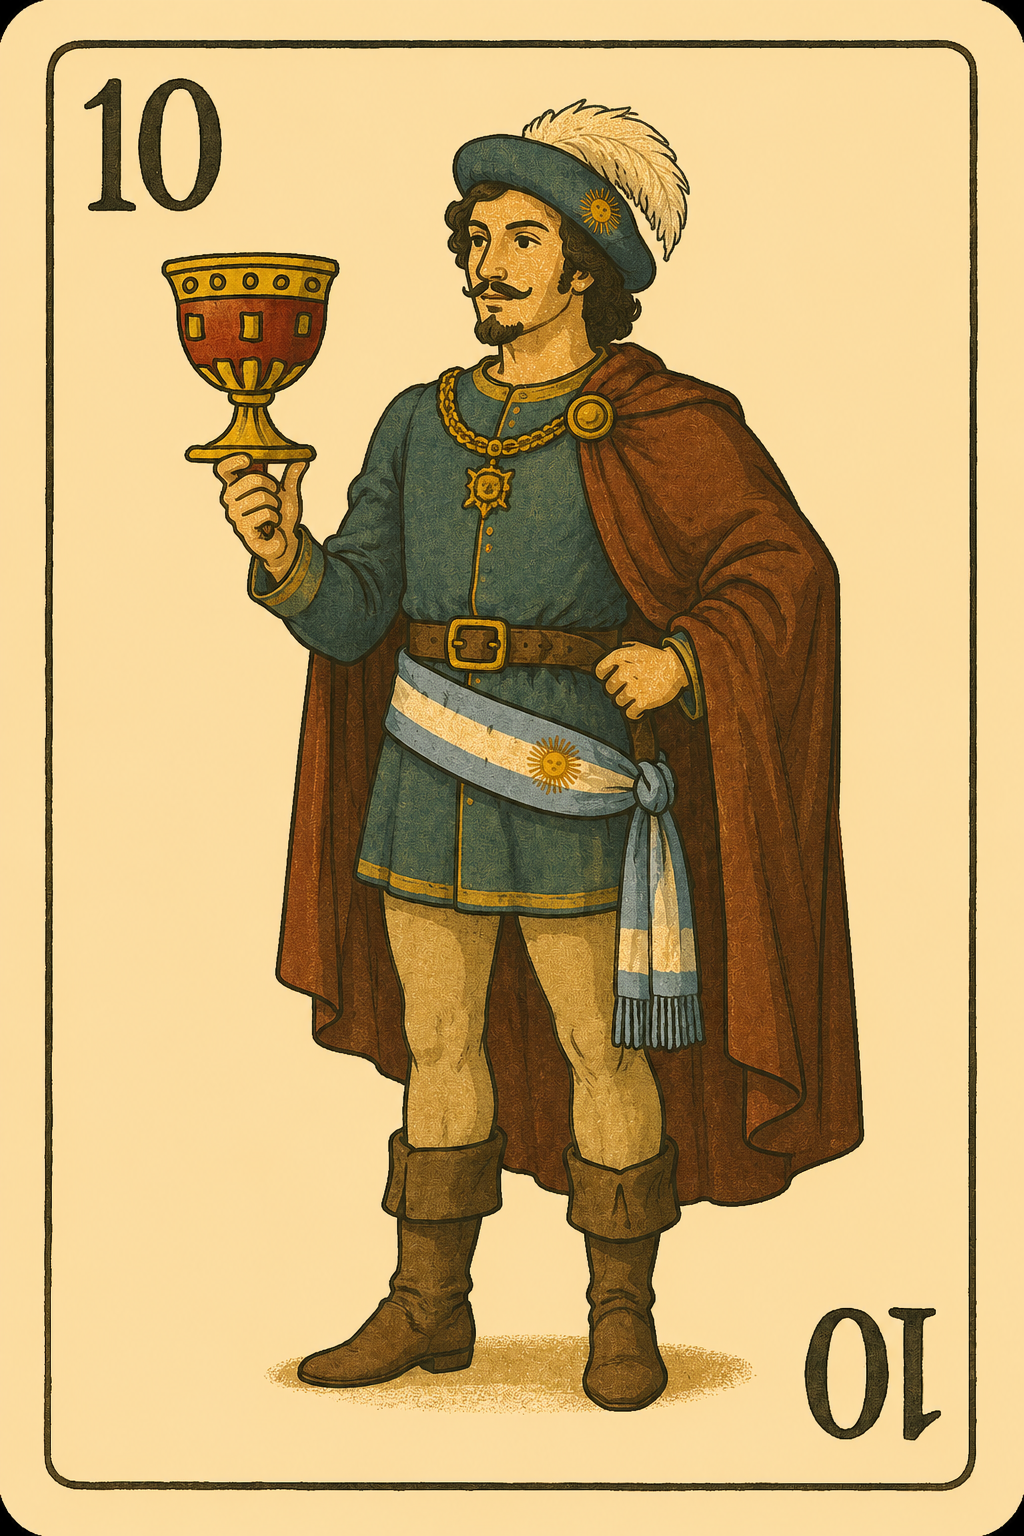
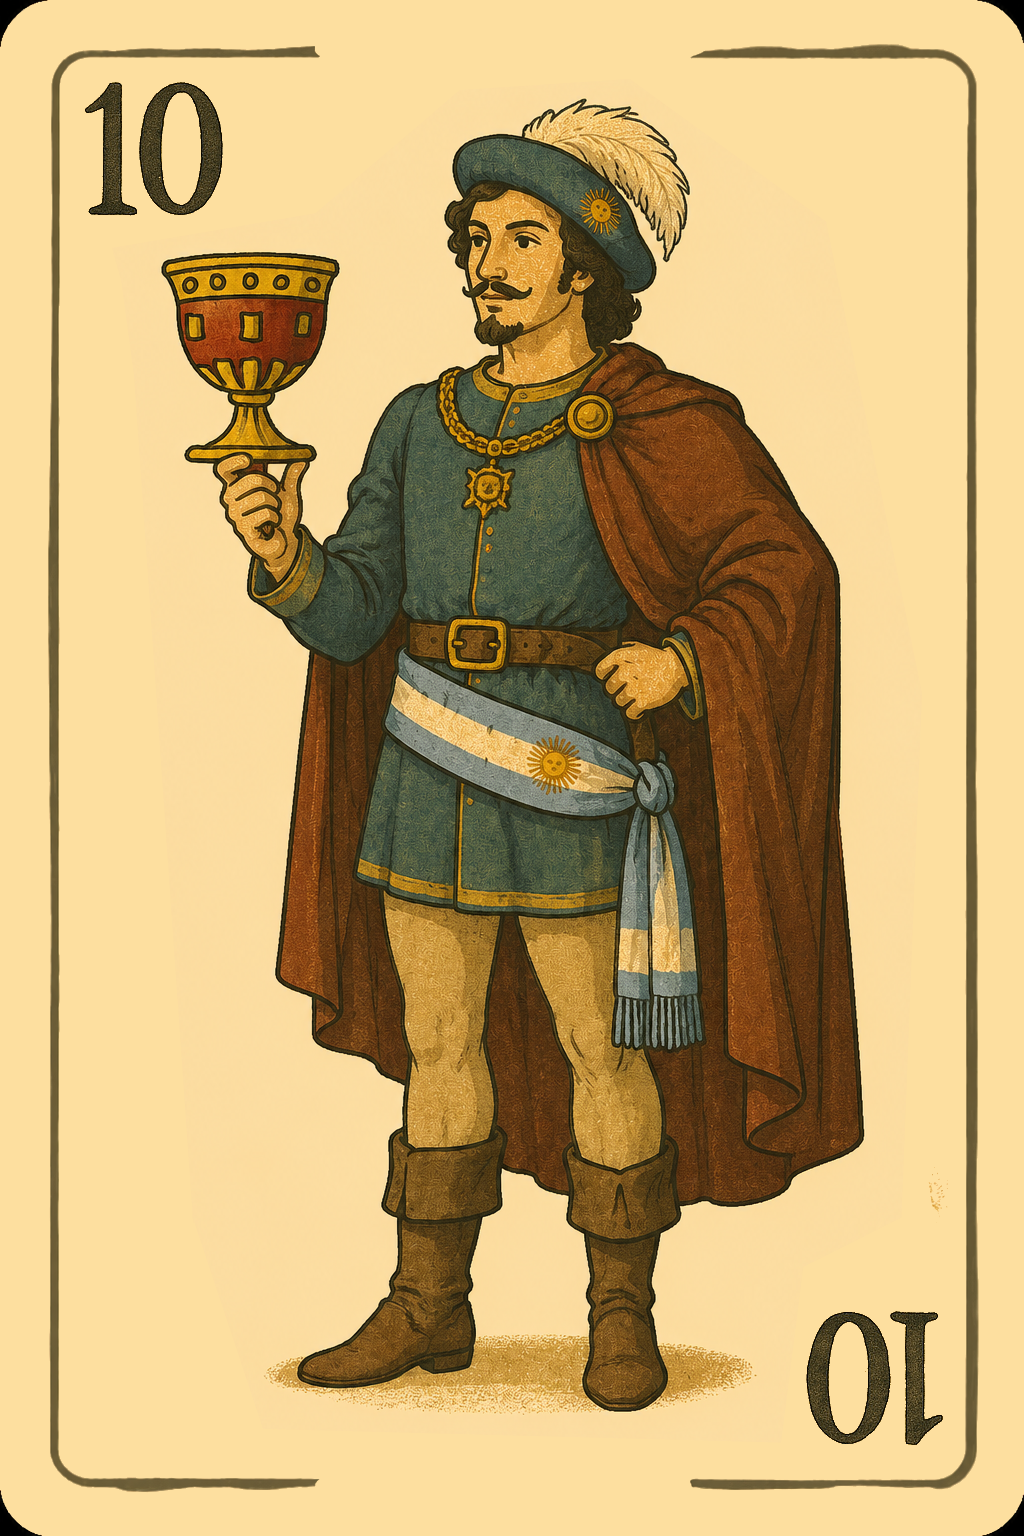
feat: new skins

Changed region(s): [[0.0312, 0.0, 0.9688, 0.9688]]

diff --git a/src/components/card/CardDisplayModeToggle.tsx b/src/components/card/CardDisplayModeToggle.tsx
@@ -18,7 +18,7 @@ const DISPLAY_MODE_OPTIONS: Array<{
 ];
 
 export const CardDisplayModeToggle = () => {
-  const [{ account, cardDisplayMode }, { setCardDisplayMode }] = useTrucoshi();
+  const [{ account, cardDisplayMode, equippedDeck }, { setCardDisplayMode }] = useTrucoshi();
   const [anchorEl, setAnchorEl] = useState<null | HTMLElement>(null);
   const selected =
     DISPLAY_MODE_OPTIONS.find((option) => option.value === cardDisplayMode) ||
@@ -44,7 +44,13 @@ export const CardDisplayModeToggle = () => {
         aria-expanded={anchorEl ? "true" : undefined}
         onClick={(event) => setAnchorEl(event.currentTarget)}
       >
-        <FlipGameCard disableButton flip={!anchorEl} card="1e" width="1.4em" />
+        <FlipGameCard
+          cardSkinByCard={{ "1e": equippedDeck["1e"] }}
+          disableButton
+          flip={!anchorEl}
+          card="1e"
+          width="1.4em"
+        />
       </Button>
       <Menu
         id="card-display-mode-menu"
